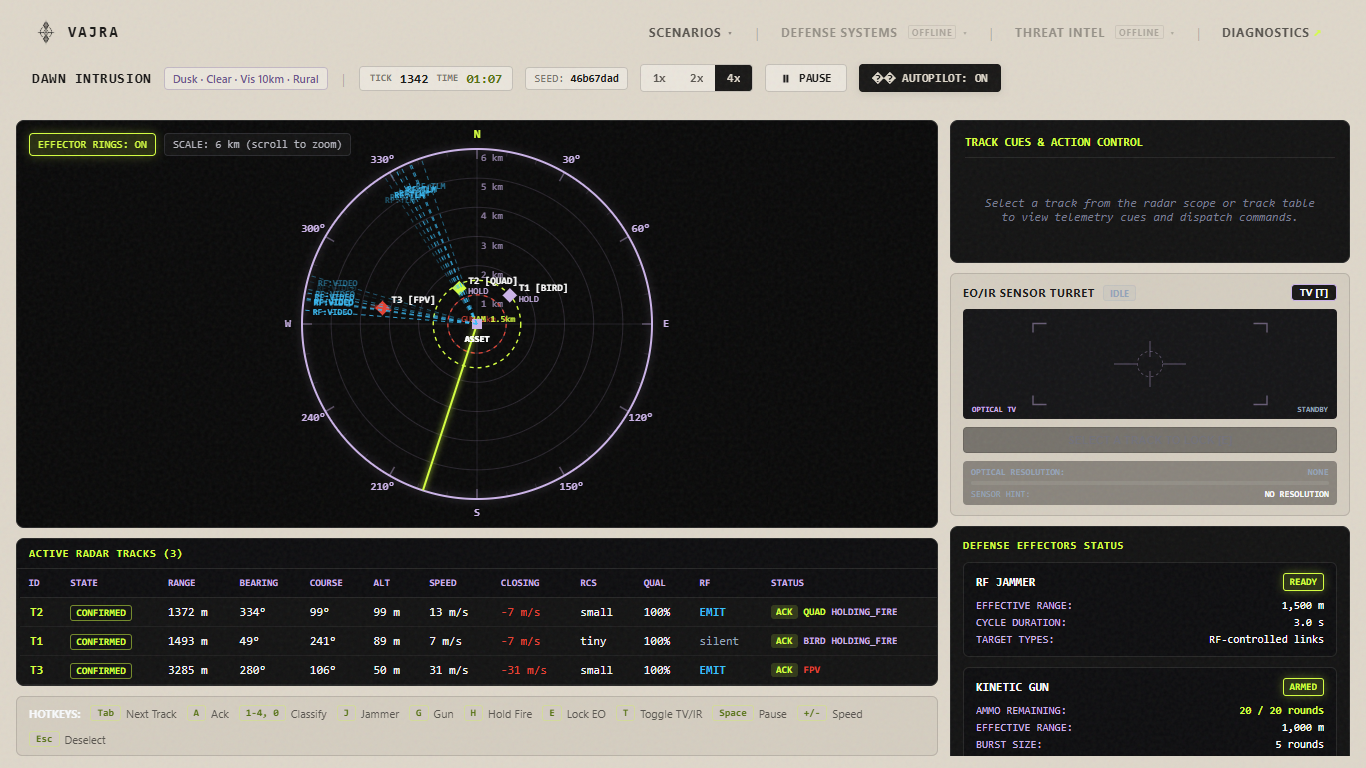
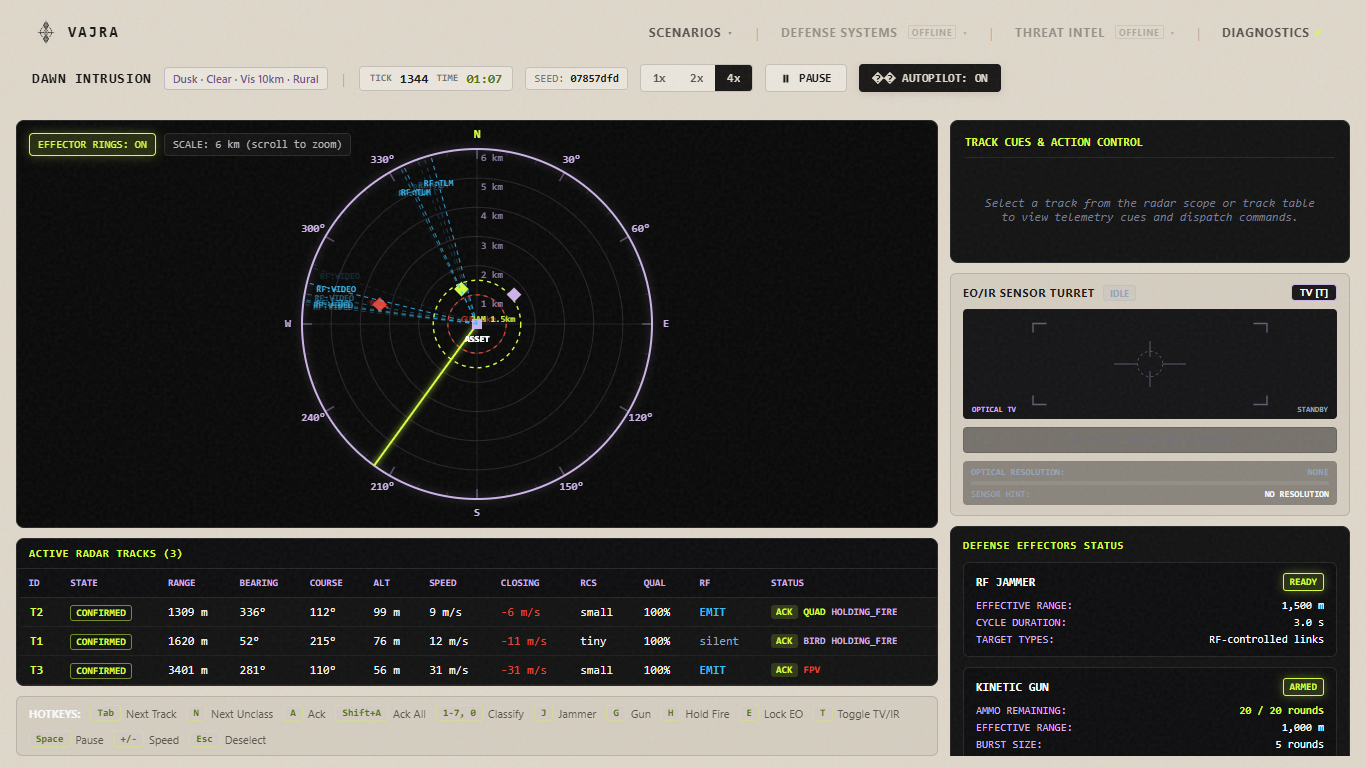
docs: update architecture, decisions, changelog, and phase 3a screenshots (Docs)

diff --git a/tests/phase3a.test.tsx b/tests/phase3a.test.tsx
@@ -9,11 +9,7 @@ import {
   scoreSession,
   generateScenario,
   Tier,
-  GEN_VERSION,
-  SwarmTactic,
-  THREAT_LIBRARY,
   TraineeTrack,
-  SessionLog,
 } from '../src/sim/index.js';
 import { oracleStep } from '../src/sim/bots/oracleOperator.js';
 import { MissionSetup } from '../src/app/console/MissionSetup.js';
@@ -210,7 +206,7 @@ describe('Phase 3A Acceptance Tests', () => {
     const tiers: Tier[] = ['recruit', 'operator', 'veteran', 'elite'];
     for (const tier of tiers) {
       const eLive = new Engine('s1', `proc:v1:${tier}`);
-      let snapAt1200: any = null;
+      let snapAt1200: ReturnType<typeof eLive.snapshot> | null = null;
 
       for (let t = 0; t < 1200; t++) {
         if (eLive.missionState.ended) break;

diff --git a/src/app/console/hotkeys.ts b/src/app/console/hotkeys.ts
@@ -26,7 +26,7 @@ export function handleHotkey(
     ctrlKey?: boolean;
     metaKey?: boolean;
     altKey?: boolean;
-    target?: any;
+    target?: EventTarget | null;
     preventDefault?: () => void;
   },
   props: UseHotkeysProps

diff --git a/docs/CHANGELOG.md b/docs/CHANGELOG.md
@@ -2,6 +2,50 @@
 
 All notable changes to this project will be documented in this file.
 
+## [0.6.0] - Phase 3A: Swarms, Procedural Generator, Difficulty Tiers
+
+### Added
+- **New Threat Classes (`src/sim/model/threats.ts`)**:
+  - `fpv_fiber`: Hostile fiber-optic guided strike drone. Speed 20-30 m/s, alt 20-80m, RCS 0.02, size 0.35m, thermal 0.8. `rfControlled: false`, `rfSignature: 'none'`. Immune to soft-kill jamming; looks RF-silent.
+  - `decoy_drone`: Non-hostile low-cost target drone. Speed 20-30 m/s, alt 40-100m, RCS 0.05 (medium bucket), size 1.2m, thermal 0.3. `rfControlled: false`, `rfSignature: 'none'`. Incurs no asset damage; becomes `impacted` with `DECOY_IMPACT` at $\le 25$m of the defended asset.
+  - Added internal simulation fields `Actor.groupId` and `Actor.role` ('striker' | 'decoy').
+  - Extended classification options in `src/sim/view/classificationOptions.ts` with `fpv_fiber` (hotkey 6) and `decoy_drone` (hotkey 7).
+- **Swarm Tactical Formations (`src/sim/scenarios/swarm.ts`)**:
+  - `buildSwarmSpawns(config)` generating synchronized, deterministic swarm formations without boids algorithms.
+  - `saturation`: Concentrated inbound attack within a 20-40s window from a single azimuth ($\pm 12^\circ$ spread, 40-80m lateral offsets).
+  - `split`: Dual-axis pincer attack with subgroups separated by $70^\circ - 120^\circ$ and the second group delayed by 10-25s.
+  - `decoy_screen`: Decoy drones deployed 500-900m ahead of strikers along the ingress axis, with strikers trailing by 12-20s.
+  - All positions and offsets computed strictly via deterministic vector math and `dSin/dCos` with terrain clearance $\ge 20$m AGL.
+- **Procedural Scenario Generator (`src/sim/scenarios/generator.ts`, `GEN_VERSION = 1`)**:
+  - `generateScenario(seed, tier, avoid?)` generating deterministic procedural missions under `proc:v1:<tier>` with isolated `rng.fork('gen')`.
+  - Tiers: `recruit` (1-2 strikers, 0 decoys, 0 fiber, 1-2 civilians), `operator` (3-5 strikers, 0-1 decoys, $\le 25\%$ fiber, 1-2 civilians), `veteran` (6-10 strikers, 1-3 decoys, $\le 40\%$ fiber, 1-3 civilians), `elite` (10-16 strikers, 2-4 decoys, $\le 50\%$ fiber, 0-2 civilians, pop-up striker wave after $t=150$s).
+  - Deterministic FNV-1a fingerprinting with 30-degree quantized bearings, class counts, and environment tags. Supports up to 8 re-rolls on avoid lists.
+  - Integrated into `Engine` constructor, worker protocol, and snapshot restore.
+- **Scoring & Effector Accounting Additions (`src/sim/scoring/basic.ts`, `constants.ts`)**:
+  - Decoy engagement penalty: -3 points (`ENGAGE_DECOY`).
+  - Partial FPV classification credit: 0.5 points between `fpv_kamikaze` and `fpv_fiber` (1.0 for exact class match, 0 otherwise).
+  - `ScoreReport.effectorUse`: Tracks `gunBurstsFired`, `jammerCycles`, `killsPerEffector` ({ gun, jammer }), and `wastedEngagements` ({ ghost, decoy, neutral }).
+- **Bot Strategy & Sensor Fusion (`src/sim/bots/referenceOperator.ts`)**:
+  - Hostile contact prioritization by estimated time-to-impact ($\text{rangeM} / -\text{closingRateMps}$).
+  - Tactical effector selection: RF-emitting threats engaged with jammer; RF-silent FPVs engaged strictly with gun (avoiding -5 wasted jammer penalty).
+  - Decoy avoidance: Contacts exhibiting RF-silent emission and medium RCS bucket (or optical hint) assessed as `decoy_drone` and held fire.
+  - Test-only `oracleOperator` (`src/sim/bots/oracleOperator.ts`) reading engine ground truth for solvability verification.
+- **Console UI Enhancements (`src/app/console/`)**:
+  - `MissionSetup`: Procedural scenario card with difficulty tier selector (`recruit`, `operator`, `veteran`, `elite`), dynamic environment chips, and vague threat estimates.
+  - `TrackTable`: Sticky header with internal scrolling container for 16+ tracks, verified with zero page scroll at 1366x768.
+  - `drawScope`: Track label decluttering showing text identifiers only for selected, hovered, and unacknowledged confirmed tracks (with bright tactical glow).
+  - Hotkeys: `Shift+A` (acknowledge all unacknowledged tracks in tick order) and `N` (cycle next unclassified track by range).
+  - `DebriefScreen`: Procedural tier and tactic badges, plus dedicated Effector Engagement Accounting dashboard.
+- **Phase 3A Acceptance Test Suite (`tests/phase3a.test.tsx`)**:
+  - 10 rigorous tests covering determinism, tier bounds, diversity ($\ge 45/50$), oracle solvability ($\ge 90\%$), difficulty degradation ($99.7 \to 72.7 \to 27.0 \to 10.2$), snapshot/replay hashes, privacy leaks, scoring penalties, scripted scenario completion, and UI components.
+
+### Fixed
+- **Step 0.1 Scenario Timing**: Refined `ridge_runner` and `city_edge_night` actor waypoint lengths and velocities so all scripted actors resolve by tick $\le 4200$, resolving all 3 scenarios before tick 4800.
+- **Step 0.2 Radar Sector Sector Boundary Guard**: Converted sector angle test in `src/sim/systems/radar.ts` to strictly half-open $[start, end)$ with 360-degree wrap and minimum rotation spacing ($>1.9$s), eliminating double detections on consecutive ticks.
+- **Step 0.3 RF Line Association**: Updated `associateRfWithTracks` to select the strobe with the smallest angular difference (tiebreak: newest timestamp).
+- **Step 0.4 False Track Engagement**: Removed ground-truth actor check in `tryEngageTrack`, allowing firing on radar ghost tracks and assessing the -5 penalty.
+- **Step 0.5 Navigation Bar Disabled States**: Visually disabled non-functional navigation menus (DEFENSE SYSTEMS, THREAT INTEL) with `is-disabled` styling, reduced opacity, and `OFFLINE` indicators.
+
 ## [0.5.0] - Phase 2B: RF Detector, EO/IR Sensor, Day/Night Effects
 
 ### Added

diff --git a/docs/ARCHITECTURE.md b/docs/ARCHITECTURE.md
@@ -208,4 +208,45 @@ Every tick in `Engine.step()` executes exactly five systems in fixed order:
   - Exposes `{ state, lockedTrackId, channel, level, hint, quality = min(1, effPixels/12) }`.
   - Raw `effPixels` is strictly withheld.
 
+## 6. Phase 3A Architecture Additions: Swarms, Procedural Generator, Difficulty Tiers
+
+### New Threat Classes (`src/sim/model/threats.ts`)
+- **`fpv_fiber`**: Wire/fiber-guided strike drone.
+  - RCS: $0.02\text{ m}^2$ (small bucket), physical size: $0.35\text{ m}$, thermal: $0.8$, speed: $20-30\text{ m/s}$, altitude: $20-80\text{ m}$.
+  - RF Characteristics: `rfControlled: false`, `rfSignature: 'none'`.
+  - Tactical implication: RF-silent on passive detectors; immune to RF jammer soft-kill. Trainee must employ hard-kill autocannon. Jammer usage incurs wasted non-RF penalty (-5).
+- **`decoy_drone`**: Aerodynamic decoy and signature imitator.
+  - RCS: $0.05\text{ m}^2$ (medium bucket), physical size: $1.2\text{ m}$, thermal: $0.3$, speed: $20-30\text{ m/s}$, altitude: $40-100\text{ m}$.
+  - RF Characteristics: `rfControlled: false`, `rfSignature: 'none'`.
+  - Tactical implication: Mimics inbound strikers on radar. Does zero asset damage. At $\le 25\text{ m}$ of the asset it impacts harmlessly with `DECOY_IMPACT` (not an asset hit). Trainee must identify via medium RCS / optical cues and withhold fire to preserve ammo and avoid decoy engagement penalty (-3).
+
+### Swarm Tactical Formations (`src/sim/scenarios/swarm.ts`)
+Formations are computed deterministically without boids algorithms using leader-follower vector mathematics and seeded jitter:
+- **`saturation`**: All swarm members attack from a single bearing sector ($\pm 12^\circ$ spread, $40-80\text{ m}$ lateral spacing) compressed within a $20-40\text{ s}$ arrival window.
+- **`split`**: Pincer ingress from two bearings separated by $70^\circ - 120^\circ$. The secondary group is delayed by $10-25\text{ s}$.
+- **`decoy_screen`**: Decoys fly $500-900\text{ m}$ ahead of armed strikers along the same bearing, with strikers trailing by $12-20\text{ s}$.
+- **Terrain Following**: All waypoints and offsets clamp altitude $\ge 20\text{ m}$ AGL using the procedural terrain elevation map.
+
+### Procedural Generator & Difficulty Tiers (`src/sim/scenarios/generator.ts`)
+- **Version**: `GEN_VERSION = 1`.
+- **API**: `generateScenario(seed, tier, avoid?)` creates dynamic environments, spawn schedules, and deterministic fingerprints.
+- **Scenario ID Format**: `proc:v1:<tier>` (e.g. `proc:v1:veteran`). Integrated into snapshot/restore and replay harnesses.
+- **Fingerprinting**: 32-bit FNV-1a hash over `(version, tactic, classCounts, quantizedBearings30Deg, environment)`. Up to 8 re-rolls on avoid collision.
+- **Tier Configuration**:
+  - `recruit`: 1-2 strikers, 0 decoys, 0 fiber share, 1-2 civilians. Rural/hilly, clear day, EW none. Single threat ingress.
+  - `operator`: 3-5 strikers, 0-1 decoys, $\le 25\%$ fiber share, 1-2 civilians. Clear/fog, day/dusk, EW none/light. Small saturation or split swarms.
+  - `veteran`: 6-10 strikers, 1-3 decoys, $\le 40\%$ fiber share, 1-3 civilians. Any environment, EW light/heavy. Multi-axis split and decoy screens.
+  - `elite`: 10-16 strikers, 2-4 decoys, $\le 50\%$ fiber share, 0-2 civilians. Any environment, EW heavy. Coordinated multi-axis swarm with pop-up striker wave after $t=150\text{ s}$ at close range ($1000-1300\text{ m}$).
+
+### Effector Accounting & Scoring (`src/sim/scoring/basic.ts`)
+- **`ScoreReport.effectorUse`**:
+  - `gunBurstsFired`: Count of `ENGAGEMENT_STARTED` with `effector === 'gun'`.
+  - `jammerCycles`: Count of `ENGAGEMENT_STARTED` with `effector === 'jammer'`.
+  - `killsPerEffector`: `{ gun, jammer }` for verified hits on active hostile targets.
+  - `wastedEngagements`: `{ ghost, decoy, neutral }` separating clutter/ghost engagements, decoy hits, and neutral quad/bird engagements.
+- **Penalties & Partial Credit**:
+  - Decoy engagement: -3 points (`ENGAGE_DECOY`).
+  - Wasted jammer on non-RF target: -5 points (`WASTED_JAMMER_NON_RF`).
+  - Classification credit: 1.0 for exact class match; 0.5 for cross-assessing between hostile FPV variants (`fpv_kamikaze` $\leftrightarrow$ `fpv_fiber`); 0.0 otherwise.
+
 

diff --git a/docs/DECISIONS.md b/docs/DECISIONS.md
@@ -71,3 +71,23 @@ This deliberate operational design ensures that:
   $$\text{AGL}(x, y, z) = z - \text{terrainHeight}(x, y)$$
 - Physical collision with terrain or surface clutter occurs if $\text{AGL}(x, y, z) \le 0\text{ m}$. Clutter degradation factors for radar detection are parameterized directly by this local AGL height.
 
+## ADR-007: Phase 3A Swarm Tactics, Procedural Generator, and Effector Accounting
+
+### 1. Swarm Formation Mechanics Without Boids
+To maintain 100% deterministic cross-platform repeatability and eliminate unbounded computational complexity, swarm formations avoid multi-agent boids simulation. Instead, swarm tactics (`saturation`, `split`, `decoy_screen`) are computed via deterministic vector projections:
+- A virtual swarm leader trajectory points directly toward the defended asset coordinate `(0, 0, 0)`.
+- Individual swarm members receive lateral and longitudinal offset vectors perpendicular and parallel to the leader ingress bearing, parameterized with deterministic PRNG jitter.
+- Terrain clearance ($\ge 20\text{ m}$ AGL) is enforced dynamically by clamping $Z \ge \text{terrain.heightAt}(x, y) + 20$.
+
+### 2. Time-to-Impact Hostile Prioritization
+Under swarm conditions with up to 16 concurrent hostile strikers, raw range is an inadequate threat metric (e.g. an FPV at 1200m traveling at 30 m/s reaches the asset in 40s, while a quad at 900m moving laterally may never hit). `referenceOperator` ranks all confirmed hostile threats by estimated time-to-impact ($\text{TTI} = \text{rangeM} / -\text{closingRateMps}$), engaging the most imminent threat first.
+
+### 3. Decoy Drone & Fiber FPV Discrimination Rules
+- `fpv_fiber`: Physical wire guidance removes all RF command and video telemetry. The passive RF detector categorizes it as `silent`. The reference bot detects this absence of RF emissions and directs hard-kill autocannon engagements rather than RF jamming, avoiding the -5 wasted jammer penalty.
+- `decoy_drone`: Built to draw fire from defensive systems. It presents an RCS in the `medium` bucket ($0.05\text{ m}^2$) while remaining RF-silent. The reference bot assesses contacts with `rfStatus === 'silent'` and `rcsBucket === 'medium'` as `decoy_drone`, withholding fire to preserve ammunition and avoid the -3 decoy penalty.
+
+### 4. Extended Operator Console Hotkeys
+- `Shift + A`: Batches acknowledgments for all confirmed, unacknowledged tracks in chronological detection order.
+- `N`: Instantly cycles focus to the next unclassified confirmed track ordered by proximity to the defended asset.
+- `6` and `7`: Hotkey assignments for `fpv_fiber` ("FPV-type (no RF)") and `decoy_drone` ("Decoy / low-cost target").
+
